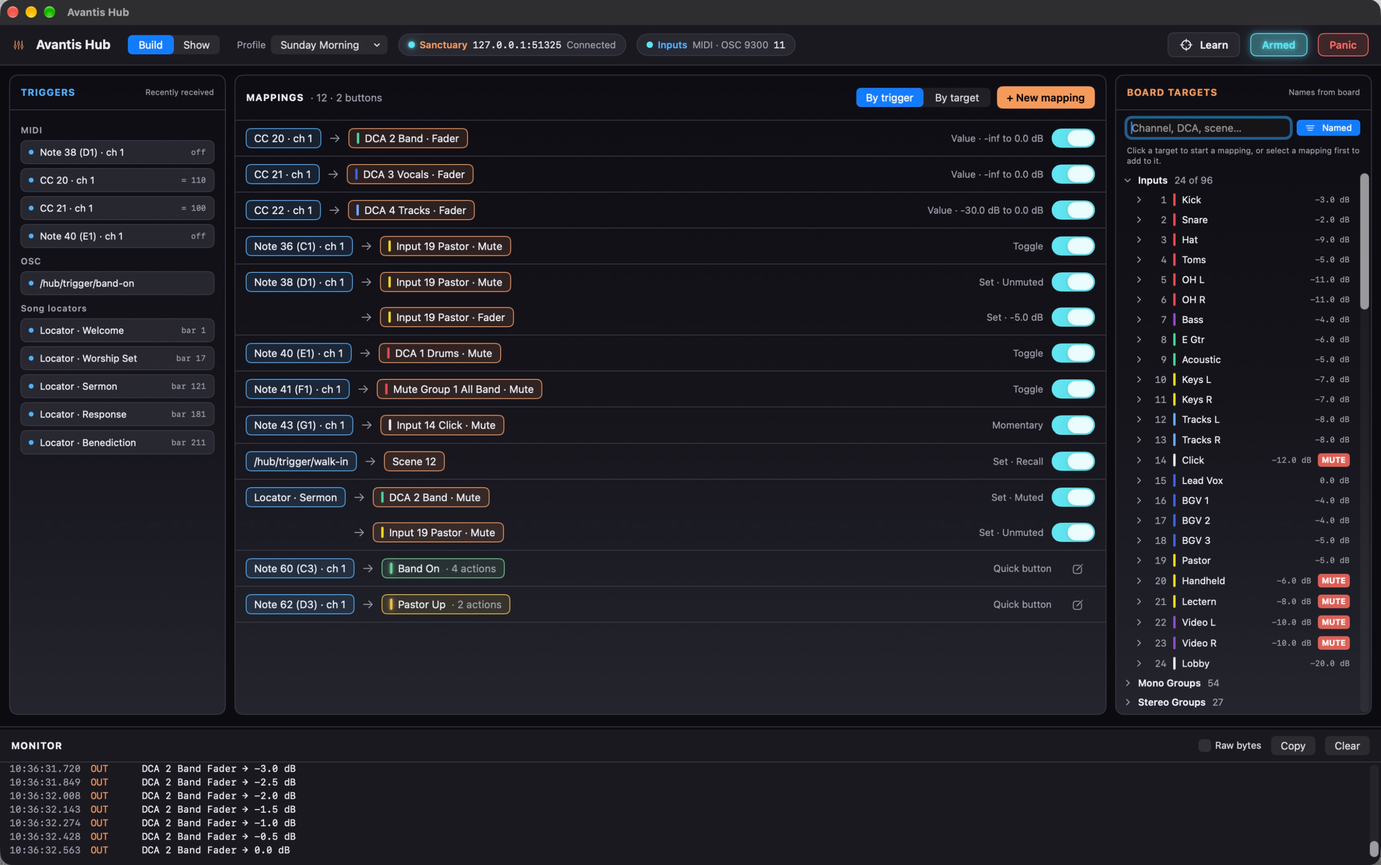
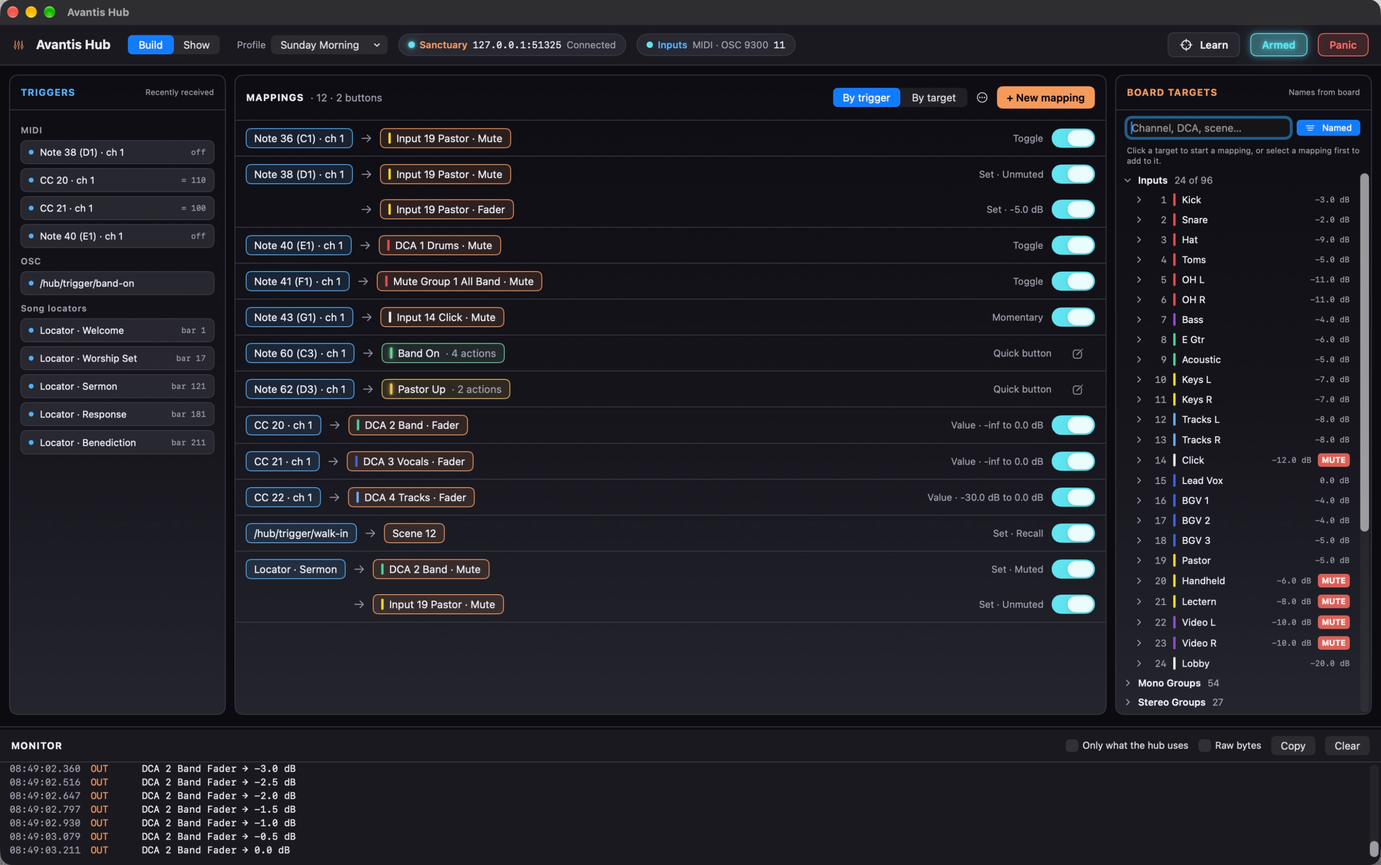
Avantis Hub 0.9.7: appcast, release notes, manual and screenshots

diff --git a/manual.html b/manual.html
@@ -237,13 +237,15 @@
 <li>A channel that has not moved since the hub connected shows what the hub remembers from last time, <strong>dimmed</strong>.</li>
 <li>A fader the hub has never seen move shows <strong>?</strong>. A mute it has not heard about on this connection shows <strong>MUTE ?</strong> with a dashed edge.</li>
 <li>As soon as a fader or mute changes, by hand or by a cue, the hub shows the live value.</li>
+<li>On firmware V2.0 and later, the experimental option below can fill most of them in as the hub connects.</li>
 </ul>
 <p>The console only answers for the channels and mixes it is set up with, so a mix your console does not use keeps its plain number for a name.</p>
 <p>Remembered values are for your eyes only. The hub never uses a remembered value to decide anything.</p>
-<h3>Reading input mutes on connecting (experimental)</h3>
-<p>With <strong>Read input mutes on connecting</strong> switched on for a board, the hub makes one short extra visit to the console as it connects, on the connection Avantis Director uses. It reads which inputs are muted and leaves. It only reads, and it never changes anything.</p>
+<h3>Reading mutes and faders on connecting (experimental)</h3>
+<p>With <strong>Read input mutes and faders on connecting</strong> switched on for a board, the hub makes one short extra visit to the console as it connects, on the connection Avantis Director uses. It reads where things are and leaves. It only reads, and it never changes anything.</p>
 <ul>
-<li>It fills in the mutes of the inputs only. Faders, DCAs and mixes still start unknown.</li>
+<li>It fills in the inputs' mutes and fader levels, the DCAs' mutes and levels, the mute groups' mutes, and the mutes and levels of the stereo auxes, the mains and the stereo matrices.</li>
+<li>It only fills in what the hub does not already know. Anything that changed on this connection keeps its live value.</li>
 <li>If the visit fails for any reason, nothing changes and the hub carries on as it would without it. The Monitor says what happened.</li>
 <li>It is available on <strong>V2.0 and later</strong> only.</li>
 </ul>
@@ -321,7 +323,7 @@
 <p>You can also start from the target: with no mapping selected, click a target in the right column and a new mapping opens for it, ready for its trigger. Cancel removes it again.</p>
 <h3>The inspector</h3>
 <p>Selecting a mapping opens its inspector under the list.</p>
-<figure class=""><img src="img/mac-inspector.png" alt="The inspector for a Set mapping. With a mapping open, each trigger on the left offers Use." width="1112" height="826" loading="lazy"><figcaption>The inspector for a Set mapping. With a mapping open, each trigger on the left offers Use.</figcaption></figure>
+<figure class=""><img src="img/mac-inspector.png" alt="The inspector for a Value mapping. With a mapping open, each trigger on the left offers Use." width="1112" height="825" loading="lazy"><figcaption>The inspector for a Value mapping. With a mapping open, each trigger on the left offers Use.</figcaption></figure>
 <ul>
 <li><strong>Done</strong> keeps the mapping as it is now and closes the inspector.</li>
 <li><strong>Cancel</strong>, the close button or <strong>Esc</strong> backs out. The mapping goes back to how it was when you opened it, and a brand new mapping is removed.</li>
@@ -333,7 +335,7 @@
 <h3>Trigger types</h3>
 <table>
 <tr><th>Type</th><th>Fires when</th></tr>
-<tr><td>Note</td><td>A MIDI note on that number and channel is played. Note names follow Ableton Live and Logic, where middle C (note 60) is C3.</td></tr>
+<tr><td>Note</td><td>A MIDI note on that number and channel is played. Note names follow Ableton Live and Logic, where middle C (note 60) is C3. One key press is one press: a second Note On before the Note Off is ignored. If a Note Off never comes, for example because a clip was stopped between the two, the next Note On still counts once nothing has been heard from that note for 2 seconds.</td></tr>
 <tr><td>Control change (CC)</td><td>A controller on that number and channel sends a value.</td></tr>
 <tr><td>Program change</td><td>That program number is sent on that channel.</td></tr>
 <tr><td>OSC</td><td>A message arrives on that exact address. Addresses are not case sensitive.</td></tr>
@@ -377,12 +379,14 @@
 <p>Which column applies is the board's <strong>Firmware</strong> setting. See <a href="#console">Connecting to the console</a>.</p>
 <p>Inputs also offer:</p>
 <ul>
-<li><strong>Main assign:</strong> whether the input feeds the main mix.</li>
+<li><strong>Main assign:</strong> whether the input feeds the main mix. Turning it off takes the input out of the house without touching its aux sends, so in-ear mixes still hear it: a talkback switch for the band. A mute would cut the in-ears too.</li>
 <li><strong>Aux sends</strong> and <strong>FX sends</strong> from that input.</li>
 <li><strong>DCA assign:</strong> membership of each of the 16 DCAs.</li>
 <li><strong>Mute group assign:</strong> membership of each of the 8 mute groups.</li>
 </ul>
 <p>How many of each your console actually uses depends on how it is configured. A target for a mix your show does not have simply does nothing.</p>
+<p>On a console where LR is one stereo main, Main 1 and Main 2 carry the same name, and the hub shows it once, as Main 1.</p>
+<p>The console does not tell the hub what its mute groups are called, so you can name them in the hub: click the pencil beside a mute group in Board Targets, or double-click its name in Show view. Names are kept with the board and are only for showing.</p>
 <h3>UFX key and scale</h3>
 <p>On firmware V2.0 and later, the hub can set the key and the scale that the console's UFX pitch effects follow, such as a vocal tuner. They are in Board Targets under <strong>UFX</strong>: twelve keys from C to B, and the scales Major, Minor and Chromatic.</p>
 <ul>
@@ -390,6 +394,7 @@
 <li>Key and scale are separate. A cue for "G minor" is one trigger with two targets: Key G and Scale Minor.</li>
 <li>They are the console's global key and scale. An effect set to follow its own key ignores them.</li>
 <li>The hub cannot read the key the console is on, so it never shows one.</li>
+<li>The hub sends UFX keys, scales and parameters at least 50 ms apart, in the order they were asked for, because the console was seen to miss a key sent right behind another UFX change. Mutes and faders are not held back by this. Still put a key, scale and tuner cue on separate positions in a clip, key first, so their order is fixed.</li>
 <li>On a board set to firmware before V2.0 they are not offered, and a mapping that uses one is held and says why.</li>
 </ul>
 <h3>One switch for UFX cues</h3>
@@ -448,7 +453,7 @@
 </ul>
 <h3>A channel strip</h3>
 <ul>
-<li><strong>Label and name:</strong> the channel's number and the name from the console, with the console's colour.</li>
+<li><strong>Label and name:</strong> the channel's number and the name from the console, with the console's colour. A mute group has no name from the console: double-click where its name goes, or right-click and choose <strong>Name...</strong>, type a name and press Return. Escape leaves it as it was.</li>
 <li><strong>Blue outline and badge:</strong> a channel with a blue outline is controlled by a mapping, and the badge at its top right names the trigger, such as "CC 20" or "C4". A "+1" means there are more. Click the badge to open the mapping, or to pick from a list if there are several. The <strong>Mapped</strong> key at the top right of the surface is the reminder of what the outline means.</li>
 <li><strong>Fader:</strong> lit in the channel's colour, and brighter the higher it sits. A muted channel loses its glow, so the ones passing signal stand out.</li>
 <li><strong>dB readout</strong> under the fader. It is cyan while the fader is gliding.</li>
@@ -483,7 +488,7 @@
 <h3>In the editor</h3>
 <table>
 <tr><th>Field</th><th>What it does</th></tr>
-<tr><td>Name and Color</td><td>How the button looks everywhere, including on phones. There are six colours.</td></tr>
+<tr><td>Name and Color</td><td>How the button looks everywhere, including on phones. There are twelve colours.</td></tr>
 <tr><td>Keyboard shortcut</td><td>Click, then press the keys. It needs Command, Option or Control. Esc cancels and Delete clears.</td></tr>
 <tr><td>MIDI trigger</td><td>Click, then play the note or send the CC or program change that should press the button. Nothing is sent to the console while it waits.</td></tr>
 <tr><td>OSC address</td><td>Made from the name when the button is first saved, such as <code>/hub/trigger/pastor-up</code>. It stays the same if you rename the button later, so cues built on it keep working.</td></tr>
@@ -498,6 +503,8 @@
 <p>When a button fires, the buttons it ran light up with it, on the Mac and on phones.</p>
 <h3>Pressing</h3>
 <p>Click the tile, use its shortcut, send its MIDI trigger or OSC address, tap it on a phone, or use the menu bar panel. A tile is dimmed when the hub is disarmed or not connected. Hover over a tile to see its OSC address.</p>
+<h3>Which one is in effect</h3>
+<p>A button that only sets UFX parameters, such as Tuner On or Tuner Off, shows <strong>NOW</strong> and a brighter outline in Show view while those parameters are at its values. That goes by what the hub last sent: a change made on the console's own screen is not seen, and it is forgotten when the connection drops.</p>
 
 <nav class="pager" aria-label="More topics"><a class="prev" href="#show"><small>Previous</small>Show view</a><a class="next" href="#inputs"><small>Next</small>Sending cues: MIDI, OSC, Ableton Live</a></nav></section><section class="topic" data-topic="inputs"><h2 id="inputs">14. Sending cues: MIDI, OSC, Ableton Live</h2>
 <p>Click the <strong>Inputs</strong> pill for these settings. They are also under <strong>Settings &gt; Inputs</strong>. There is a tab for each kind: MIDI, OSC and Ableton Live.</p>
@@ -597,6 +604,8 @@
 </table>
 <ul>
 <li><strong>Raw bytes</strong> also shows the exact bytes exchanged with the console, for diagnosing.</li>
+<li><strong>Only what the hub uses</strong> hides incoming MIDI that no mapping or quick button is set to, here and in the Triggers list, so an expression pedal or a busy controller does not bury the cues. Everything shows while learning.</li>
+<li>A run of values from one control on one input folds into a single line with a count, such as <code>×24</code>, showing the latest value.</li>
 <li><strong>Clear</strong> empties the list.</li>
 <li><strong>Copy</strong> puts every line on the clipboard, handy when asking for help. Right-click a line for <strong>Copy Line</strong>.</li>
 </ul>
@@ -730,7 +739,7 @@
 <figure class="small"><img src="img/mac-settings-console.png" alt="Settings > Console." width="559" height="619" loading="lazy"><figcaption>Settings > Console.</figcaption></figure>
 <ul>
 <li><strong>Connection</strong> tab: <strong>Board</strong>, <strong>New Board</strong> and <strong>Delete Board</strong>, then the board's <strong>Name</strong>, <strong>Console IP</strong> with <strong>Find</strong>, <strong>Base MIDI channel</strong> and <strong>Firmware</strong>.</li>
-<li><strong>Options</strong> tab, kept with the board: <strong>Send UFX key, scale and parameters</strong> (see <a href="#targets">What can be controlled</a>), <strong>Read input mutes on connecting (experimental)</strong> (see <a href="#console">Connecting to the console</a>) and <strong>Use the console's SoftKeys and MIDI strips as triggers</strong> (see <a href="#inputs">Sending cues</a>).</li>
+<li><strong>Options</strong> tab, kept with the board: <strong>Send UFX key, scale and parameters</strong> (see <a href="#targets">What can be controlled</a>), <strong>Read input mutes and faders on connecting (experimental)</strong> (see <a href="#console">Connecting to the console</a>) and <strong>Use the console's SoftKeys and MIDI strips as triggers</strong> (see <a href="#inputs">Sending cues</a>).</li>
 <li><strong>Startup</strong> tab, kept with this Mac: <strong>Connect when the app opens</strong> and <strong>Arm when the console connects</strong>.</li>
 <li><strong>Connect</strong> or <strong>Disconnect</strong> is at the bottom of every tab.</li>
 <li><strong>Shape of a glide:</strong> Even or Eased.</li>
@@ -746,15 +755,19 @@
 <figure class="small"><img src="img/mac-settings-sharing.png" alt="Settings > Sharing." width="559" height="440" loading="lazy"><figcaption>Settings > Sharing.</figcaption></figure>
 <p>The shared folder, if any, with <strong>Show in Finder</strong>, <strong>Choose Another Folder</strong> and <strong>Stop Sharing</strong>.</p>
 <h3>Updates</h3>
-<figure class="small"><img src="img/mac-settings-updates.png" alt="Settings > Updates." width="559" height="470" loading="lazy"><figcaption>Settings > Updates.</figcaption></figure>
+<figure class="small"><img src="img/mac-settings-updates.png" alt="Settings > Updates." width="558" height="266" loading="lazy"><figcaption>Settings > Updates.</figcaption></figure>
 <p>The version you are running, <strong>Check for updates automatically</strong>, <strong>Check Now</strong> and when it last checked.</p>
 
 <nav class="pager" aria-label="More topics"><a class="prev" href="#sharing"><small>Previous</small>Using more than one Mac</a><a class="next" href="#updates"><small>Next</small>Updates</a></nav></section><section class="topic" data-topic="updates"><h2 id="updates">23. Updates</h2>
 <p>The hub checks for a new version once a day. Nothing downloads or installs until you say so. To check yourself, choose <strong>Avantis Hub &gt; Check for Updates</strong>.</p>
+<p>When the daily check finds a new version, no window opens by itself, armed or not, so nothing gets in the way of a service. A banner appears across the top of the window, in Build and Show view:</p>
+<figure class=""><img src="img/mac-update-banner.png" alt="A new version found by the daily check, shown as a banner." width="1728" height="128" loading="lazy"><figcaption>A new version found by the daily check, shown as a banner.</figcaption></figure>
 <ul>
-<li><strong>Disarmed:</strong> a window tells you about the new version and offers to install it.</li>
-<li><strong>Armed:</strong> no window opens, so nothing gets in the way of a service. An <strong>Update</strong> marker appears at the top of the window, in the menu bar panel and in Settings. Click it when you are ready to look.</li>
+<li><strong>Show Update</strong> opens the update window, with what is new and <strong>Install Update</strong>.</li>
+<li><strong>Later</strong> hides the banner until the hub next opens or checks again.</li>
+<li>The update also shows in Settings &gt; Updates, and as an <strong>Update</strong> marker in the menu bar panel for when the window is closed.</li>
 </ul>
+<p>Choosing <strong>Check for Updates</strong> yourself opens the update window straight away.</p>
 <p>Installing restarts the hub. If it is armed, it asks first. Your boards, profiles, quick buttons and paired devices are kept apart from the app and are not touched by an update.</p>
 <p>The iPhone and iPad app updates separately, the way your other apps do.</p>
 

diff --git a/faq.html b/faq.html
@@ -199,11 +199,11 @@
 </div></details><details class="qa"><summary>Why can't I change the IP address?</summary><div class="body">
 <p>It is locked while connected. Click Disconnect first.</p>
 </div></details><details class="qa"><summary>Some faders show "?" or look dimmed.</summary><div class="body">
-<p>The console reports a fader or mute when it changes, and its MIDI control cannot be asked where everything is. A dimmed value is remembered from an earlier connection and may be out of date. A "?" has never been seen. Move the control once and the hub shows the live value. See <a href="manual.html#console">the manual</a>.</p>
+<p>The console reports a fader or mute when it changes, and its MIDI control cannot be asked where everything is. A dimmed value is remembered from an earlier connection and may be out of date. A "?" has never been seen. Move the control once and the hub shows the live value. On firmware V2.0 and later, the experimental option "Read input mutes and faders on connecting" fills most of them in as the hub connects. See <a href="manual.html#console">the manual</a>.</p>
 </div></details><details class="qa"><summary>What does "MUTE ?" mean?</summary><div class="body">
 <p>The console has not said whether that channel is muted since the hub connected. Pressing it mutes. Once the mute changes, by the hub or at the console, the button shows the real state.</p>
 </div></details><details class="qa"><summary>Can the hub read the mutes when it connects?</summary><div class="body">
-<p>For inputs, as an experiment. Each board has an option, "Read input mutes on connecting", that is off unless you turn it on. With it on, the hub makes one short read-only visit on the connection Avantis Director uses and fills in which inputs are muted. It was worked out by watching Director, not from Allen &amp; Heath's documents, so try it at a quiet console first. Faders, DCAs and mixes are not read.</p>
+<p>Yes, as an experiment. Each board has an option, "Read input mutes and faders on connecting", that is off unless you turn it on. With it on, the hub makes one short read-only visit on the connection Avantis Director uses and fills in the mutes and fader levels of the inputs, DCAs, stereo auxes, mains and stereo matrices, and the mute groups' mutes. It was worked out by watching Director, not from Allen &amp; Heath's documents, so try it at a quiet console first.</p>
 </div></details><details class="qa"><summary>Why does "turn up" from my phone say it needs the fader's level?</summary><div class="body">
 <p>Moving a fader "up by 3 dB" needs a known starting point. If the console has not reported that fader since the hub connected, the hub refuses instead of guessing. Move the fader once, or set it to a level instead.</p>
 </div></details><details class="qa"><summary>Why doesn't the hub know the current scene?</summary><div class="body">
@@ -231,7 +231,7 @@
 </div></details><details class="qa"><summary>Can the hub get into a feedback loop with the console?</summary><div class="body">
 <p>It is built not to. The hub remembers each change it has just made. If the console reports that same change back, the hub recognises it as its own and does not act on it again.</p>
 </div></details><details class="qa"><summary>Could a burst of cues flood the console?</summary><div class="body">
-<p>The hub spaces out what it sends, so a burst is delivered in order at a pace the console handles.</p>
+<p>The hub spaces out what it sends, so a burst is delivered in order at a pace the console handles. UFX keys, scales and parameters go out at least 50 ms apart, because the console was seen to miss one sent right behind another.</p>
 
 </div></details></section><section class="group" id="map"><h2>Mappings and triggers</h2>
 <details class="qa"><summary>Nothing shows in the Triggers column.</summary><div class="body">
@@ -239,6 +239,8 @@
 <li><strong>MIDI:</strong> the sending app must use the port called "Avantis Hub" as its output. A hardware controller must be switched on under MIDI in the Inputs settings.</li>
 <li><strong>OSC:</strong> Listen for OSC must be on, and the sender must use the Mac's address and the hub's port (9300 unless changed).</li>
 </ul>
+</div></details><details class="qa"><summary>A note worked once and then did nothing the next time.</summary><div class="body">
+<p>The hub counts one press per key press, and treats a note as held until its Note Off arrives. If a Note Off goes missing, for example because a clip was stopped between a note's start and end, the next Note On for that note used to be ignored. From 0.9.7 it counts again once nothing has been heard from that note for 2 seconds. A controller that sends Note On only, with no Note Off at all, should still be set to send one.</p>
 </div></details><details class="qa"><summary>Can a hardware controller or another computer send cues?</summary><div class="body">
 <p>Yes. In the Inputs settings, the MIDI tab lists every MIDI input on the Mac. Move a control, see which input's dot lights, and switch that one on. A network MIDI session from another computer or an iPad shows up the same way.</p>
 </div></details><details class="qa"><summary>Every cue is arriving twice.</summary><div class="body">
@@ -270,7 +272,7 @@
 </div></details><details class="qa"><summary>Can I control EQ, compressors, gain or pan?</summary><div class="body">
 <p>No. The hub offers what the console's control protocol exposes: mutes, faders, sends, assignments and scene recall. On firmware V2.0 and later it also offers the key and scale for the UFX pitch effects, and any UFX parameter the console has been set up to take by MIDI. For anything else, store it in a scene on the console and have the hub recall the scene.</p>
 </div></details><details class="qa"><summary>Can the hub set the key for a vocal tuner, or switch it on and off?</summary><div class="body">
-<p>On firmware V2.0 and later, yes. Board Targets has a UFX group with the twelve keys and three scales, which set the console's global key and scale. Under Parameters it has named entries, such as Tuner bypass, for parameters you have given a MIDI channel and controller number on the console. A cue at the top of a song can set the key and scale and take the tuner out of bypass together. See <a href="manual.html#targets">What can be controlled</a>.</p>
+<p>On firmware V2.0 and later, yes. Board Targets has a UFX group with the twelve keys and three scales, which set the console's global key and scale. Under Parameters it has named entries, such as Tuner bypass, for parameters you have given a MIDI channel and controller number on the console. A cue at the top of a song can set the key and scale and take the tuner out of bypass together. A quick button that only switches the tuner shows NOW in Show view while it is the one in effect, going by what the hub last sent. See <a href="manual.html#targets">What can be controlled</a>.</p>
 </div></details><details class="qa"><summary>My UFX cue says "UFX cues are switched off for this board".</summary><div class="body">
 <p>Each board has one switch for every UFX key, scale and parameter cue, and it starts off. Open the board's settings, choose Options, and turn on "Send UFX key, scale and parameters". Turn it off again to hold them all back at once.</p>
 </div></details><details class="qa"><summary>How do I start a mapping from the thing I want to control?</summary><div class="body">
@@ -359,8 +361,8 @@
 <p>A name the profile relies on has gone, or two channels now share it. The hub will not guess. Choose in the banner where the mappings should go. See <a href="manual.html#names">the manual</a>.</p>
 
 </div></details></section><section class="group" id="upd"><h2>Updates and the app itself</h2>
-<details class="qa"><summary>There is an "Update" marker at the top of the window.</summary><div class="body">
-<p>A new version was found while the hub was armed. The hub does not open a window over a service, so it shows the marker and waits. Click it to see what is new.</p>
+<details class="qa"><summary>A banner says a new version is ready.</summary><div class="body">
+<p>The daily check found one. The hub never opens a window over a service by itself, so it shows the banner and waits. Click Show Update to see what is new, or Later to hide it until the hub next opens. Nothing installs until you say so.</p>
 </div></details><details class="qa"><summary>Can an update restart the hub in the middle of a service?</summary><div class="body">
 <p>No. Nothing installs without a click, and an armed hub asks before it quits.</p>
 </div></details><details class="qa"><summary>Will an update change my mappings?</summary><div class="body">

diff --git a/release-notes.html b/release-notes.html
@@ -142,13 +142,33 @@
 <aside id="side">
 <button type="button" id="menu" aria-label="Show or hide the versions">Versions</button>
 <div class="brand">Avantis Hub<span>Release Notes</span></div>
-<nav id="contents" aria-label="Versions" style="margin-top:18px"><a href="#v0-9-6"><span class="t">Version 0.9.6</span><span class="when">Oct 9</span></a><a href="#v0-9-5"><span class="t">Version 0.9.5</span><span class="when">Oct 9</span></a><a href="#v0-9-4"><span class="t">Version 0.9.4</span><span class="when">Oct 7</span></a><a href="#v0-9-3"><span class="t">Version 0.9.3</span><span class="when">Oct 6</span></a><a href="#v0-9-2"><span class="t">Version 0.9.2</span><span class="when">Oct 6</span></a><a href="#v0-9-1"><span class="t">Version 0.9.1</span><span class="when">Oct 6</span></a><a href="#v0-9"><span class="t">Version 0.9</span><span class="when">Oct 6</span></a></nav>
+<nav id="contents" aria-label="Versions" style="margin-top:18px"><a href="#v0-9-7"><span class="t">Version 0.9.7</span><span class="when">Oct 15</span></a><a href="#v0-9-6"><span class="t">Version 0.9.6</span><span class="when">Oct 9</span></a><a href="#v0-9-5"><span class="t">Version 0.9.5</span><span class="when">Oct 9</span></a><a href="#v0-9-4"><span class="t">Version 0.9.4</span><span class="when">Oct 7</span></a><a href="#v0-9-3"><span class="t">Version 0.9.3</span><span class="when">Oct 6</span></a><a href="#v0-9-2"><span class="t">Version 0.9.2</span><span class="when">Oct 6</span></a><a href="#v0-9-1"><span class="t">Version 0.9.1</span><span class="when">Oct 6</span></a><a href="#v0-9"><span class="t">Version 0.9</span><span class="when">Oct 6</span></a></nav>
 <div class="other"><a href="manual.html">User Manual</a><a href="faq.html">FAQ</a></div>
 </aside>
 <main>
 <h1>Release notes</h1>
 <div class="subtitle">What changed in each version.</div>
-<section class="release" id="v0-9-6"><h2>Version 0.9.6<span class="date">October 9, 2026</span></h2>
+<section class="release" id="v0-9-7"><h2>Version 0.9.7<span class="date">October 15, 2026</span></h2>
+<h3>New</h3>
+<ul>
+<li><strong>More read on connecting.</strong> The experimental option is now "Read input mutes and faders on connecting". As well as the inputs' mutes, it reads their fader levels, the DCAs' mutes and levels, the mute groups' mutes, and the mutes and levels of the stereo auxes, the mains and the stereo matrices. It only fills in what the hub does not already know. Still off unless you turn it on.</li>
+<li><strong>Name your mute groups.</strong> The console does not tell the hub their names, so you can give them one: double-click a mute group's name in Show view, or click the pencil beside it in Board Targets.</li>
+<li><strong>Which tuner button is in effect.</strong> A quick button that only sets UFX parameters, such as Tuner On or Tuner Off, shows NOW in Show view while it is the one in effect, going by what the hub last sent.</li>
+<li><strong>A quieter Monitor.</strong> "Only what the hub uses" hides incoming MIDI that nothing is set to, and a run of values from one control folds into one line with a count.</li>
+<li>Quick buttons have twelve colours to choose from instead of six.</li>
+<li><strong>A banner for updates.</strong> When the daily check finds a new version, a banner across the top of the window says so, with Show Update and Later. Before, the update window could open as the hub started and vanish before it could be read.</li>
+</ul>
+<h3>Changed</h3>
+<ul>
+<li>UFX keys, scales and parameters go to the console at least 50 ms apart, in the order asked for. The console was seen to miss a key sent right behind another UFX change. Mutes and faders are not held back.</li>
+<li>A main that is one stereo pair, such as LR, shows once instead of as Main 1 and Main 2.</li>
+</ul>
+<h3>Fixed</h3>
+<ul>
+<li>A note whose Note Off never arrived, for example because its clip was stopped, no longer blocks the next press of that note. Once nothing has been heard from it for 2 seconds, a new Note On counts again.</li>
+<li>A keyboard shortcut using an arrow key showed as a question mark, though it worked. Arrows, Return, Tab, Space, Home, End, Page Up, Page Down and F1 to F12 now show by name.</li>
+</ul>
+</section><section class="release" id="v0-9-6"><h2>Version 0.9.6<span class="date">October 9, 2026</span></h2>
 <h3>New</h3>
 <ul>
 <li><strong>One switch for UFX cues.</strong> Each board has "Send UFX key, scale and parameters" in its Options. With it off, every UFX cue on that board is held and the Monitor says so, while everything else carries on. <strong>It starts off:</strong> turn it on for a board whose UFX cues you were already using.</li>
